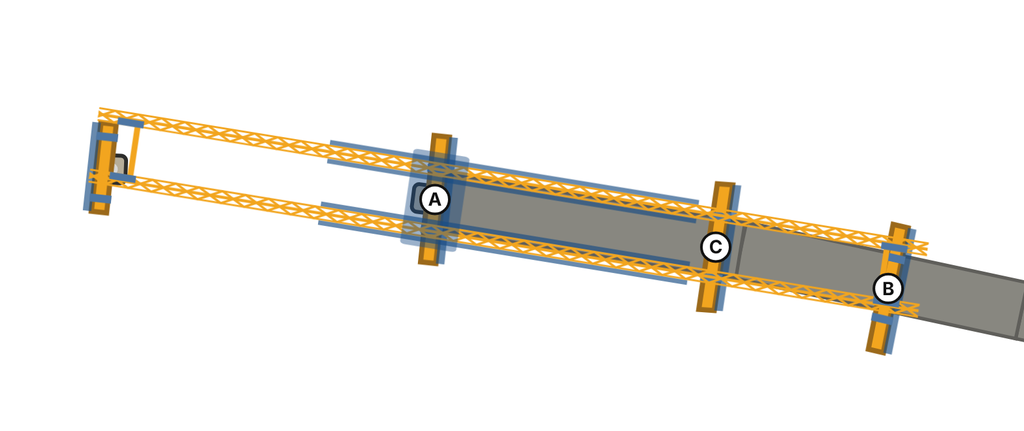
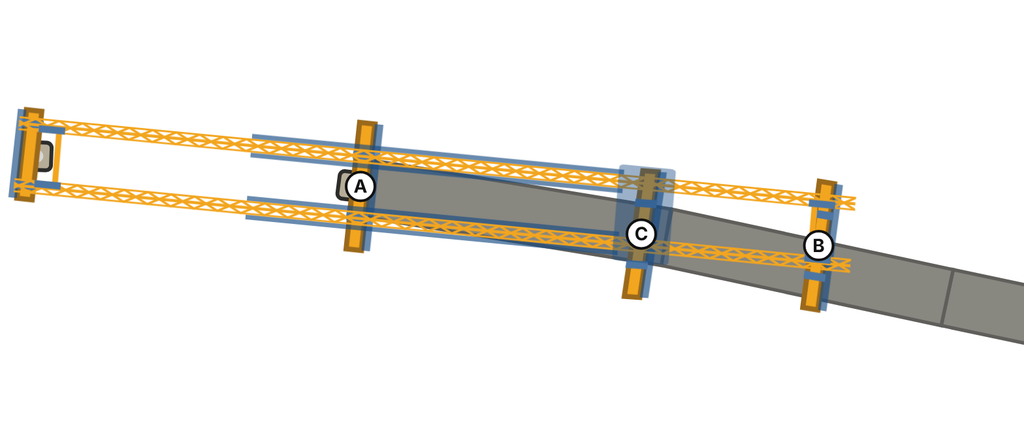
Update the gantry animation steps table and pictures for the trolley parking over Support C
Claude-Session: https://claude.ai/code/session_015LPAcVzxesVnab38S8qd1b

Changed region(s): [[0.0, 0.2413, 1.0, 0.8445]]

diff --git a/docs/animation-steps/README.md b/docs/animation-steps/README.md
@@ -1,7 +1,7 @@
 # Gantry animation steps
 
 The steps of the Clayton Clipper's move in `src/MapView/gantryAnimation.js`, with the gantry, concrete guideway supports and finished spans
-after each one. The pictures are from the Horizontal view, on the gantry's move from span 103 to span 104. Steps 1, 2 and 19, where Support C lies across a double girder span, also
+after each one. The pictures are from the Horizontal view, on the gantry's move from span 103 to span 104. Steps 1, 2 and 20, where Support C lies across a double girder span, also
 have a picture from the move from span 44 to span 45.
 
 In the step pictures, A, B and C mark the gantry's three wide supports. Each letter stays with its piece of the drawing
@@ -26,21 +26,22 @@ lifting jacks at the ends of the trusses aren't drawn on the map, so they are on
 | 8             | The trolley carries Support A forward: the first part of its trip.                                                                                                                                                                                                                                                                                                                                                                                                                 | It has gone halfway along the trusses towards Support A's place on the next span (`FOURTH_TURNS_AT`).                                                                                                          | ![After step 8](step-08.png)                                                                                                                          |
 | 9             | Support A turns so it is perpendicular to the guideway.                                                                                                                                                                                                                                                                                                                                                                                                                            | It is perpendicular to the guideway (at Support A's angle on the next span).                                                                                                                                   | ![After step 9](step-09.png)                                                                                                                          |
 | 10            | The rest of Support A's trip, with the trolley. The trolley then lowers Support A.                                                                                                                                                                                                                                                                                                                                                                                                 | It is just behind the front support (on Support A's place on the next span).                                                                                                                                   | ![After step 10](step-10.png)                                                                                                                         |
-| 11            | The trusses slide back so they can pick up the front support.                                                                                                                                                                                                                                                                                                                                                                                                                      | The front tip is over the centre of the front support, nudged by 8 units along the trusses (`PICKUP`).                                                                                                         | ![After step 11](step-11.png)                                                                                                                         |
-| 12            | The front lifting jacks raise the front support, and the trusses carry it forward, the first part of its trip.                                                                                                                                                                                                                                                                                                                                                                     | Their rear tips are over the centre of Support B, or the front support's whole trip (steps 12 and 13) is done, if that comes first.                                                                            | ![After step 12](step-12.png)                                                                                                                         |
-| 13            | The rear lifting jacks raise Support B, then the trusses carry the front support the rest of its trip, with Support B riding along.                                                                                                                                                                                                                                                                                                                                                | It is the right distance from Support A for its place on the next span (step 14 swings it the rest of the way on a curve).                                                                                     | ![After step 13](step-13.png)                                                                                                                         |
-| 14            | The trusses pivot on Support A, and their front end swings, carrying the front support. The trolley, parked over Support A, turns where it is. Support B stays raised on the rear lifting jacks as a counterweight for the front support. Skipped when it would move things less than 2 pixels on the screen (`UNSEEN`), as on straight track.                                                                                                                                     | The front support is on its place on the next span.                                                                                                                                                            | ![After step 14](step-14.png)                                                                                                                         |
-| 15            | The front lifting jacks lower the front support onto its place. The trusses swing back the same way, and at the same time the front support turns about its own centre. At the end of the swing, with the trusses back in line, the rear lifting jacks lower Support B. Each part is skipped when it would move things less than 2 pixels on the screen (`UNSEEN`): the swing back when step 14 was skipped, the front support's turn when the ends of its beam would hardly move. | The trusses are back where they were before step 14, and the front support is at the angle it has on the next span.                                                                                            | ![After step 15](step-15.png)                                                                                                                         |
-| 16            | The trusses slide back. Support B and the front support stay where they are. If steps 14 and 15 were skipped, the rear lifting jacks lower Support B first.                                                                                                                                                                                                                                                                                                                        | Their centre is halfway between Support C and Support A.                                                                                                                                                       | ![After step 16](step-16.png)                                                                                                                         |
-| 17            | The trolley slides back.                                                                                                                                                                                                                                                                                                                                                                                                                                                           | It is over the centre of Support B.                                                                                                                                                                            | ![After step 17](step-17.png)                                                                                                                         |
-| 18            | The trolley lifts Support B, which turns about its own centre.                                                                                                                                                                                                                                                                                                                                                                                                                     | It lies lengthwise, the way Support C lies on the next span (step 19 turns it across on a double girder span); of the ways round, the one nearest a quarter turn.                                              | ![After step 18](step-18.png)                                                                                                                         |
-| 19            | The trolley carries Support B forward, with a small move sideways that only the support makes. On a double girder span it is then turned across the span: a quarter turn about its centre. The trolley then lowers Support B.                                                                                                                                                                                                                                                      | Support B is on Support C's place on the next span.                                                                                                                                                            | ![After step 19](step-19.png)<br>On a double girder span (span 44 to span 45):<br>![After step 19 on a double girder span](step-19-double-girder.png) |
-| 20            | The trolley slides on its own, leaving Support B where step 19 put it.                                                                                                                                                                                                                                                                                                                                                                                                             | It is over the centre of Support C.                                                                                                                                                                            | ![After step 20](step-20.png)                                                                                                                         |
-| 21            | The trusses slide forward.                                                                                                                                                                                                                                                                                                                                                                                                                                                         | Their front ends (where the yellow truss lines stop) are 2 units past the front support's front edge (`GAP`).                                                                                                  | ![After step 21](step-21.png)                                                                                                                         |
-| 22            | The trusses shift straight across and turn about Support C's centre, where the trolley is parked. Skipped when it would move things less than 2 pixels on the screen (`UNSEEN`), as on straight track.                                                                                                                                                                                                                                                                             | They are on the line they have on the next span: through the place their centre goes, at their angle there.                                                                                                    | ![After step 22](step-22.png)                                                                                                                         |
-| 23            | The trusses slide forward on their own, with the trolley staying still over Support C. Skipped when it would move things less than 2 pixels on the screen (`UNSEEN`), as on straight track.                                                                                                                                                                                                                                                                                        | The trolley has come as close to the blue tips at the trusses' rear end as it may: half a tip's length (`TIP_GAP_SHARE`), rounded to a whole number of truss units. Or the slide is done, if that comes first. | ![After step 23](step-23.png)                                                                                                                         |
-| 24            | The trolley slides on its own to the middle support, past Support B, which lies lengthwise instead of across the guideway and so doesn't count. Skipped when the trusses have no slide left.                                                                                                                                                                                                                                                                                       | It is over the centre of Support A.                                                                                                                                                                            | ![After step 24](step-24.png)                                                                                                                         |
-| 25            | The trusses slide the rest of the way, with the trolley staying still over Support A. Skipped when the trusses have no slide left.                                                                                                                                                                                                                                                                                                                                                 | Their centre is on its place on the next span.                                                                                                                                                                 | ![After step 25](step-25.png)                                                                                                                         |
-| 26            | The trolley drives back.                                                                                                                                                                                                                                                                                                                                                                                                                                                           | It is where it started on the trusses.                                                                                                                                                                         | ![After step 26](step-26.png)                                                                                                                         |
-| 27            | The drawing snaps to the gantry on the next span, span 104, not yet hung. The supports look the same, but the letters on Support B and Support C swap: each piece goes back to its own place, as in the initial state. Support A's piece is already in its place.                                                                                                                                                                                                                  |                                                                                                                                                                                                                | ![After step 27](step-27.png)                                                                                                                         |
+| 11            | The trolley slides on its own to Support C, where it stays through steps 12 to 17 (it leaves Support A, which is still the pivot of the swing in step 15).                                                                                                                                                                                                                                                                                                                         | It is over the centre of Support C.                                                                                                                                                                            | ![After step 11](step-11.png)                                                                                                                         |
+| 12            | The trusses slide back so they can pick up the front support. The trolley stays still over Support C.                                                                                                                                                                                                                                                                                                                                                                              | The front tip is over the centre of the front support, nudged by 8 units along the trusses (`PICKUP`).                                                                                                         | ![After step 12](step-12.png)                                                                                                                         |
+| 13            | The front lifting jacks raise the front support, and the trusses carry it forward, the first part of its trip.                                                                                                                                                                                                                                                                                                                                                                     | Their rear tips are over the centre of Support B, or the front support's whole trip (steps 13 and 14) is done, if that comes first.                                                                            | ![After step 13](step-13.png)                                                                                                                         |
+| 14            | The rear lifting jacks raise Support B, then the trusses carry the front support the rest of its trip, with Support B riding along.                                                                                                                                                                                                                                                                                                                                                | It is the right distance from Support A for its place on the next span (step 15 swings it the rest of the way on a curve).                                                                                     | ![After step 14](step-14.png)                                                                                                                         |
+| 15            | The trusses pivot on Support A, and their front end swings, carrying the front support. The trolley, parked over Support C, rides round with the trusses. Support B stays raised on the rear lifting jacks as a counterweight for the front support. Skipped when it would move things less than 2 pixels on the screen (`UNSEEN`), as on straight track.                                                                                                                          | The front support is on its place on the next span.                                                                                                                                                            | ![After step 15](step-15.png)                                                                                                                         |
+| 16            | The front lifting jacks lower the front support onto its place. The trusses swing back the same way, and at the same time the front support turns about its own centre. At the end of the swing, with the trusses back in line, the rear lifting jacks lower Support B. Each part is skipped when it would move things less than 2 pixels on the screen (`UNSEEN`): the swing back when step 15 was skipped, the front support's turn when the ends of its beam would hardly move. | The trusses are back where they were before step 15, and the front support is at the angle it has on the next span.                                                                                            | ![After step 16](step-16.png)                                                                                                                         |
+| 17            | The trusses slide back. Support B and the front support stay where they are. If steps 15 and 16 were skipped, the rear lifting jacks lower Support B first.                                                                                                                                                                                                                                                                                                                        | Their centre is halfway between Support C and Support A.                                                                                                                                                       | ![After step 17](step-17.png)                                                                                                                         |
+| 18            | The trolley slides back.                                                                                                                                                                                                                                                                                                                                                                                                                                                           | It is over the centre of Support B.                                                                                                                                                                            | ![After step 18](step-18.png)                                                                                                                         |
+| 19            | The trolley lifts Support B, which turns about its own centre.                                                                                                                                                                                                                                                                                                                                                                                                                     | It lies lengthwise, the way Support C lies on the next span (step 20 turns it across on a double girder span); of the ways round, the one nearest a quarter turn.                                              | ![After step 19](step-19.png)                                                                                                                         |
+| 20            | The trolley carries Support B forward, with a small move sideways that only the support makes. On a double girder span it is then turned across the span: a quarter turn about its centre. The trolley then lowers Support B.                                                                                                                                                                                                                                                      | Support B is on Support C's place on the next span.                                                                                                                                                            | ![After step 20](step-20.png)<br>On a double girder span (span 44 to span 45):<br>![After step 20 on a double girder span](step-20-double-girder.png) |
+| 21            | The trolley slides on its own, leaving Support B where step 20 put it.                                                                                                                                                                                                                                                                                                                                                                                                             | It is over the centre of Support C.                                                                                                                                                                            | ![After step 21](step-21.png)                                                                                                                         |
+| 22            | The trusses slide forward.                                                                                                                                                                                                                                                                                                                                                                                                                                                         | Their front ends (where the yellow truss lines stop) are 2 units past the front support's front edge (`GAP`).                                                                                                  | ![After step 22](step-22.png)                                                                                                                         |
+| 23            | The trusses shift straight across and turn about Support C's centre, where the trolley is parked. Skipped when it would move things less than 2 pixels on the screen (`UNSEEN`), as on straight track.                                                                                                                                                                                                                                                                             | They are on the line they have on the next span: through the place their centre goes, at their angle there.                                                                                                    | ![After step 23](step-23.png)                                                                                                                         |
+| 24            | The trusses slide forward on their own, with the trolley staying still over Support C. Skipped when it would move things less than 2 pixels on the screen (`UNSEEN`), as on straight track.                                                                                                                                                                                                                                                                                        | The trolley has come as close to the blue tips at the trusses' rear end as it may: half a tip's length (`TIP_GAP_SHARE`), rounded to a whole number of truss units. Or the slide is done, if that comes first. | ![After step 24](step-24.png)                                                                                                                         |
+| 25            | The trolley slides on its own to the middle support, past Support B, which lies lengthwise instead of across the guideway and so doesn't count. Skipped when the trusses have no slide left.                                                                                                                                                                                                                                                                                       | It is over the centre of Support A.                                                                                                                                                                            | ![After step 25](step-25.png)                                                                                                                         |
+| 26            | The trusses slide the rest of the way, with the trolley staying still over Support A. Skipped when the trusses have no slide left.                                                                                                                                                                                                                                                                                                                                                 | Their centre is on its place on the next span.                                                                                                                                                                 | ![After step 26](step-26.png)                                                                                                                         |
+| 27            | The trolley drives back.                                                                                                                                                                                                                                                                                                                                                                                                                                                           | It is where it started on the trusses.                                                                                                                                                                         | ![After step 27](step-27.png)                                                                                                                         |
+| 28            | The drawing snaps to the gantry on the next span, span 104, not yet hung. The supports look the same, but the letters on Support B and Support C swap: each piece goes back to its own place, as in the initial state. Support A's piece is already in its place.                                                                                                                                                                                                                  |                                                                                                                                                                                                                | ![After step 28](step-28.png)                                                                                                                         |
 | Repeat        | The span fill animation runs on the next span, span 104, and the blue hangers go on: the initial state again, one span further on. The steps then repeat from step 1.                                                                                                                                                                                                                                                                                                              |                                                                                                                                                                                                                | ![Repeat](repeat.png)                                                                                                                                 |
